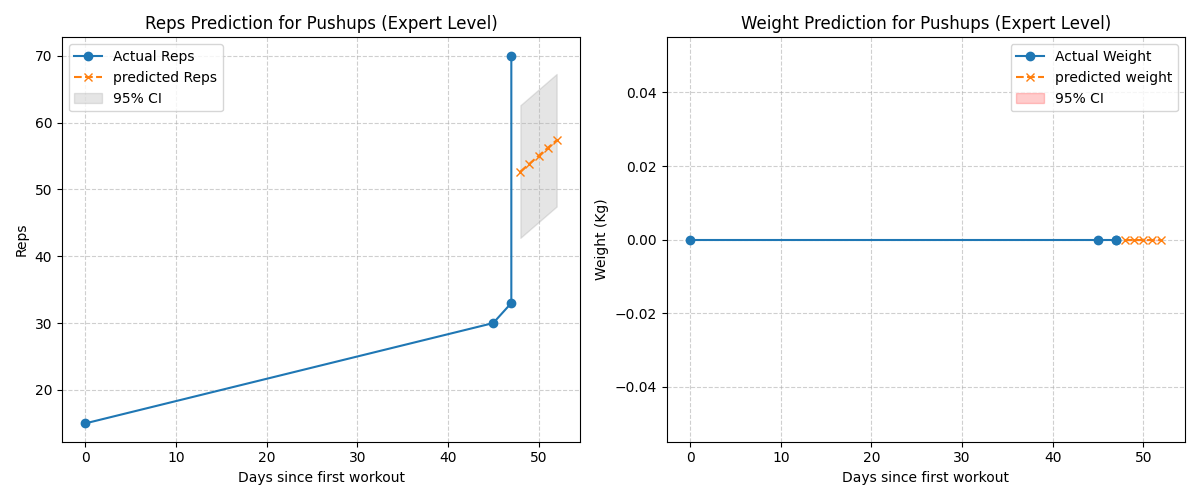
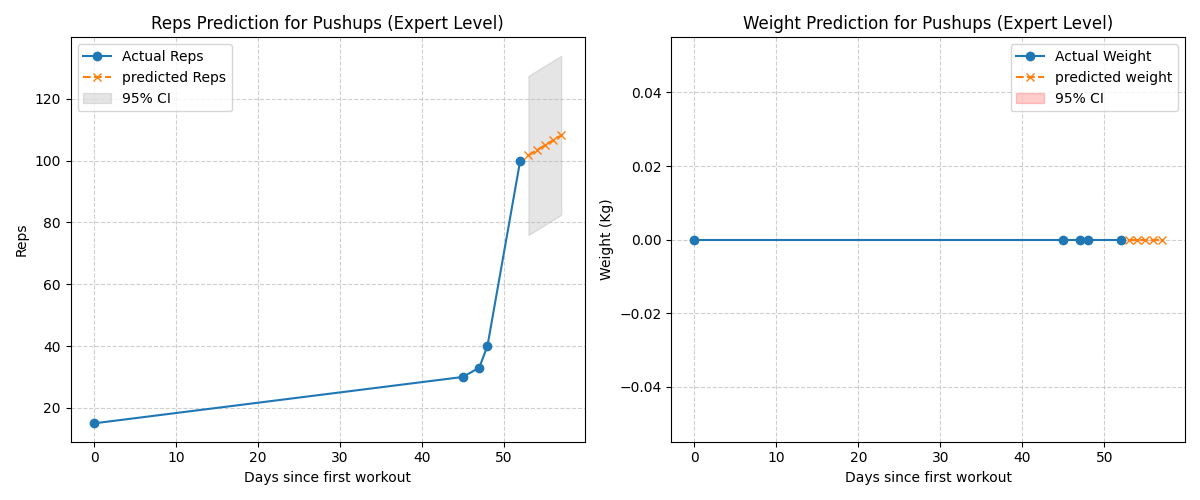
1 minor little change

diff --git a/predictor.py b/predictor.py
@@ -36,15 +36,15 @@ def predict_targets(dates, reps, weights, user_level="intermediate"):
     weights_rate = (weights[-1] - weights[0]) / max((dates[-1] - dates[0]).days, 1)
 
     if user_level == "intermediate":
-        max_reps, max_weights = 60, 120
+        max_reps, max_weights = 60, 20
     elif user_level == "expert":
-        max_reps, max_weights = 100, 170
+        max_reps, max_weights = 100, 70
     else:
-        max_reps, max_weights = 60, 120
+        max_reps, max_weights = 60, 20
 
     if reps[-1] >= 0.9 * max_reps or weights[-1] >= 0.9 * max_weights:
         user_level = "expert"
-        max_reps, max_weights = 100, 170
+        max_reps, max_weights = 100, 70
 
     iso_reps = IsotonicRegression(out_of_bounds='clip')
     iso_reps.fit(days.flatten(), reps)
